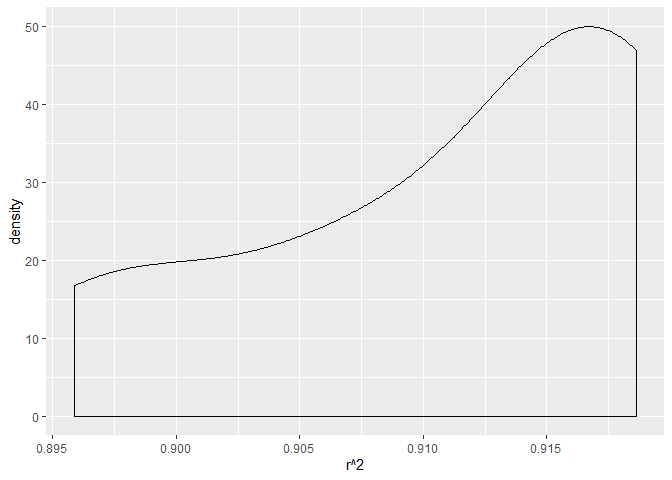
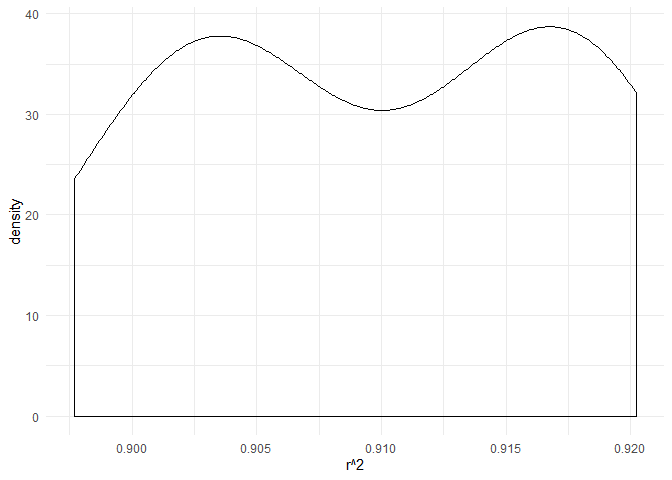
This commit updates interpretations for problems 1 and 2.

diff --git a/p8106_hw6_mss2284.md b/p8106_hw6_mss2284.md
@@ -7,14 +7,14 @@ Maya Spaur
 library(tidyverse)
 ```
 
-    ## -- Attaching packages ------------------------------------------------------------------------------------------------- tidyverse 1.2.1 --
+    ## -- Attaching packages --------------- tidyverse 1.2.1 --
 
     ## v ggplot2 3.2.1     v purrr   0.3.3
     ## v tibble  2.1.3     v dplyr   0.8.3
     ## v tidyr   1.0.0     v stringr 1.4.0
     ## v readr   1.3.1     v forcats 0.4.0
 
-    ## -- Conflicts ---------------------------------------------------------------------------------------------------- tidyverse_conflicts() --
+    ## -- Conflicts ------------------ tidyverse_conflicts() --
     ## x dplyr::filter() masks stats::filter()
     ## x dplyr::lag()    masks stats::lag()
 
@@ -36,6 +36,8 @@ library(mgcv)
 
 ``` r
 library(ggplot2)
+
+set.seed(1)
 ```
 
 \#Problem 1
@@ -43,6 +45,9 @@ library(ggplot2)
 Load and tidy data: categorical variabels were converted into factor
 variables, and variables that had units in pounds (delwt, ppwt, wtgain)
 were converted to grams.
+
+Values for the variables pnumlbw and pnumsga were all 0. The data were
+not missing but were included as 0.
 
 ``` r
 data = 
@@ -66,8 +71,10 @@ data =
     ## See spec(...) for full column specifications.
 
 In proposing a regression model for birthweight, I explore a data-driven
-model-building process using backward selection, whereby variables that
-are statistically significant remain the model.
+model-building process using backward selection, which starts with all
+variables and then iteratively removes all non statistically significant
+variables, so that only the statistically significant variables remain
+the model.
 
 Using all of the variables included in the dataset:
 
@@ -107,14 +114,18 @@ model %>%
 Using this model-building process, the following variables were
 statistically significant (p \< 0.05):
 
-babysex2, bhead, blength, delwt, gaweeks, mrace2, parity, and smoken.
+babysex2, bhead, blength, delwt, gaweeks, mrace2, mrace4, parity, and
+smoken.
 
 According to backward selection, a new model is run with these
 statistically significant variables to determine if they remain
 significant; the process is repeated until the remainder are all
 significant.
 
-\#Provide an explicit explanation.
+While mrace3 (the third level of the mrace categorical variable) was not
+statistically significant, I kept mrace in the model because of the
+longstanding evidence supporting that maternal race is an important
+determinant of baby weight.
 
 As displayed below, these variables remain significant in the restricted
 model and represent the proposed model:
@@ -222,7 +233,7 @@ plot_interaction_effects
 
 For the model containing babysex, bhead, blength, and the interactions
 between these variables, the interaction terms were statistically
-significant.
+significant for all interactions except blength and bhead.
 
 Compare models:
 
@@ -241,8 +252,12 @@ cv_bwt_df =
   mutate(rmse_proposed = map2_dbl(proposed_model, test, ~rmse(model = .x, data = .y)),
          rmse_main_effects    = map2_dbl(main_effects, test, ~rmse(model = .x, data = .y)),
          rmse_interaction_effects = map2_dbl(interaction_effects, test, ~rmse(model = .x, data = .y)))
+```
 
+    ## Warning in predict.lm(model, data): prediction from a rank-deficient fit
+    ## may be misleading
 
+``` r
 comparison_plot = 
   cv_bwt_df %>% 
   pivot_longer(
@@ -282,8 +297,6 @@ RMSE.
 Bootstraps
 
 ``` r
-set.seed(1)
-
 boot_straps = 
   weather_df %>% 
   modelr::bootstrap(n = 10) %>%
@@ -312,20 +325,21 @@ boot_straps
 
 Plot of Distribution of Estimates
 
-\#Do they mean a density plot?
-
 r^2
 
 ``` r
 boot_straps_1 =
   boot_straps %>% 
   unnest(results) %>%
-  ggplot(aes(x = r.squared)) + geom_density() + labs(x = "r^2")
+  ggplot(aes(x = r.squared)) + geom_density() + labs(x = "r^2") +  theme_minimal()
 
 boot_straps_1
 ```
 
 ![](p8106_hw6_mss2284_files/figure-gfm/unnamed-chunk-6-1.png)<!-- -->
+
+The 95% Confidence Interval for r^2 is indicated in the following table,
+from the 2.5 to 97.5% quantiles:
 
 ``` r
 percentile_1 = 
@@ -341,7 +355,7 @@ percentile_1
 
 | perc\_2.5 | perc\_97.5 |
 | --------: | ---------: |
-| 0.8965245 |  0.9185782 |
+|  0.898603 |  0.9199832 |
 
 log(β<sup>0∗β</sup>1)
 
@@ -359,12 +373,15 @@ boot_straps_2 =
 
 boot_straps_2_plot =
   boot_straps_2 %>%
-  ggplot(aes(x = log_term)) + geom_density() + labs(x = "log(β^0∗β^1)")
+  ggplot(aes(x = log_term)) + geom_density() + labs(x = "log(β^0 x β^1)") + theme_minimal()
 
 boot_straps_2_plot
 ```
 
-![](p8106_hw6_mss2284_files/figure-gfm/unnamed-chunk-7-1.png)<!-- -->
+![](p8106_hw6_mss2284_files/figure-gfm/unnamed-chunk-8-1.png)<!-- -->
+
+The 95% Confidence Interval for log(β<sup>0∗β</sup>1) is indicated in
+the following table, from the 2.5 to 97.5% quantiles:
 
 ``` r
 percentile_2 = 
@@ -379,4 +396,4 @@ percentile_2
 
 | perc\_2.5 | perc\_97.5 |
 | --------: | ---------: |
-|  1.976589 |   2.062677 |
+|  1.988434 |   2.037179 |
